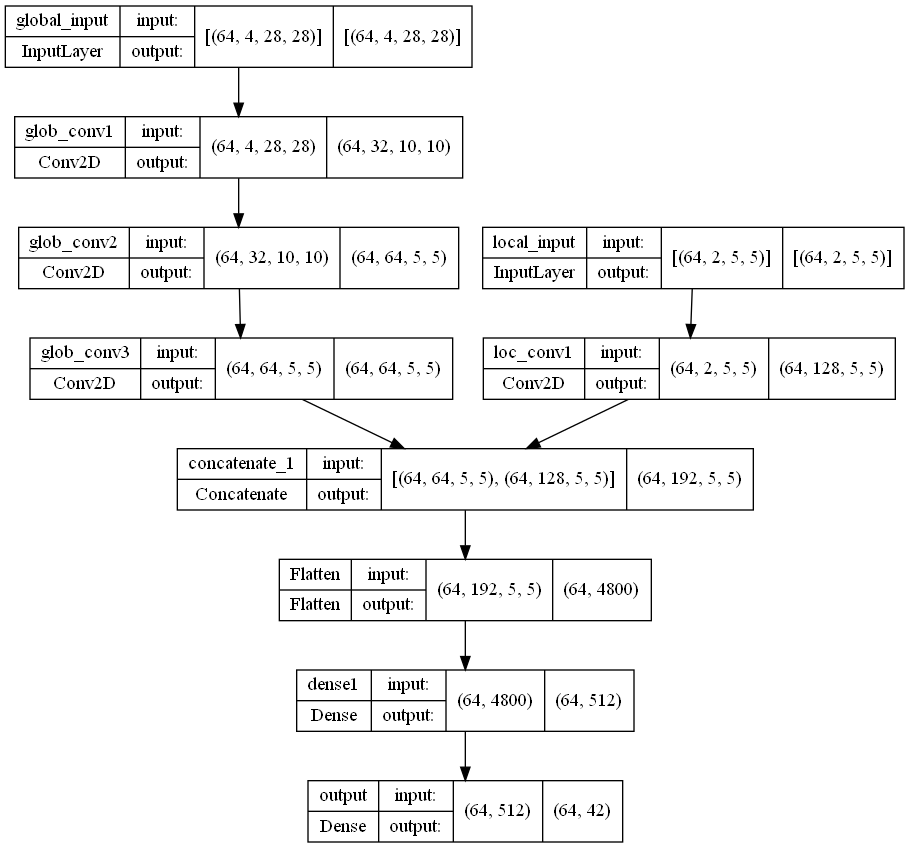
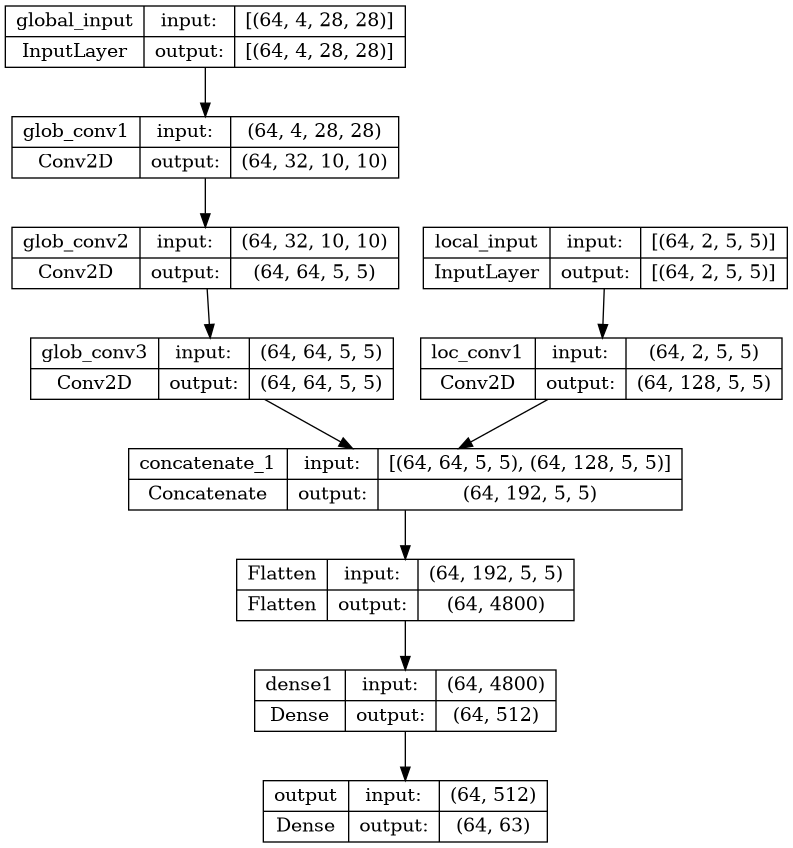
Redesigned action space parameters

diff --git a/src/agent_modules/environment.py b/src/agent_modules/environment.py
@@ -6,7 +6,7 @@ from agent_modules.physics import Physic_Engine
 
 
 class ShapeDraw(object):
-    def __init__(self, sidelength: int, patchsize: int, referenceData: np.array, n_actions : int,  do_render : bool = True, max_action_strength : int = 1):
+    def __init__(self, sidelength: int, patchsize: int, referenceData: np.array, n_actions : int,  do_render : bool = True, max_action_strength : int = 2, friction: float = 0.2, vel_1: float = 0.8, vel_2: float = 1.2):
         self.s = sidelength
         self.p = patchsize  # sidelength of patch (local Input). must be odd
         self.max_action_strength = max_action_strength
@@ -22,20 +22,20 @@ class ShapeDraw(object):
         self.canvas_patch = np.zeros((self.p, self.p))
 
         # Physics
-        self.phy_settings = {"friction": 0.2, "action_scale": 1.0}
+        self.phy_settings = {"friction": friction, "action_scale": 1.0}
         self.phy = Physic_Engine(**self.phy_settings)
 
 
         # possible outputs
         # For each pixel, is an action option (location of that pixel)
-        self.n_actions = 42
+        self.n_actions = n_actions
         self.actions = [(0,0)]
         for i in range(8):
             angle = ma.pi/4*i
-            self.actions.append( (float('%.2f' % (ma.cos(angle)*0.8)) , float('%.2f' % (ma.sin(angle)*0.8))) )
+            self.actions.append( (float('%.2f' % (ma.cos(angle)*vel_1)) , float('%.2f' % (ma.sin(angle)*vel_1))) )
         for i in range(12):
             angle = ma.pi/6*i
-            self.actions.append( (float('%.2f' % (ma.cos(angle)*1.2)) , float('%.2f' % (ma.sin(angle)*1.2))) )
+            self.actions.append( (float('%.2f' % (ma.cos(angle)*vel_2)) , float('%.2f' % (ma.sin(angle)*vel_2))) )
 
         print(self.actions)
 
@@ -47,7 +47,7 @@ class ShapeDraw(object):
         self.isDrawing = 0 # 0 = not Drawing, 1 = Drawing (not bool because NN)
         self.agentPos = [0, 0] # initialize agent position to top left corner of the image
         self.set_agentPos([random.randint(1, self.s-2),
-                          random.randrange(1, self.s-2)])  # Set a random start location for the agent (but with one pixel margin)
+                          random.randrange(1, self.s-2)], weight=1)  # Set a random start location for the agent (but with one pixel margin)
 
         if do_render: self.fig, self.axs = plt.subplots(1, 2, figsize=[10,7])
         
@@ -64,12 +64,12 @@ class ShapeDraw(object):
         :rtype: tuple
         """
         
-        x, y = self.translate_action(agent_action)
+        x, y, weight = self.translate_action(agent_action)
         action = self.phy.calc_new_pos(self.agentPos, [x, y], update_velocity=True)
 
         penalty = 0
         if self.move_isLegal(action):
-            self.set_agentPos(action)
+            self.set_agentPos(action, weight)
         else:
             # Give a penalty for an illegal move
             penalty = -0.05
@@ -85,7 +85,7 @@ class ShapeDraw(object):
 
     def illegal_actions(self, illegal_list : np.array):
         for action in range(self.n_actions):
-            x, y = self.translate_action(action)
+            x, y, _ = self.translate_action(action)
             act = self.phy.calc_new_pos(self.agentPos, [x, y], update_velocity = False)
             illegal_list[action] = int(not self.move_isLegal(act))
         
@@ -118,12 +118,13 @@ class ShapeDraw(object):
         :rtype: tuple
         """
         self.isDrawing = 1
-        if action >= int(self.n_actions/2):
-            action -= int(self.n_actions/2)
+        weight = int(action/(self.n_actions/self.max_action_strength))
+        action = action % int(self.n_actions/self.max_action_strength)
+        if weight == 0:
             self.isDrawing = 0
 
         x, y = self.actions[action]
-        return x, y
+        return x, y, weight
 
 
     def reward(self):
@@ -153,7 +154,7 @@ class ShapeDraw(object):
         return reward
 
 
-    def set_agentPos(self, pos: list):
+    def set_agentPos(self, pos: list, weight: int):
         """
         set_agentPos Sets the agent to a new position.
 
@@ -161,7 +162,7 @@ class ShapeDraw(object):
         :type pos: list
         """
         if self.isDrawing:
-            self.canvas = drawline(self.agentPos, pos, self.canvas)
+            self.canvas = drawline(self.agentPos, pos, self.canvas, weight=weight)
         self.agentPos = pos
         self.update_distmap()
         self.update_patch()
@@ -230,7 +231,7 @@ class ShapeDraw(object):
         self.isDrawing = 0
         self.phy.velocity = [.0, .0]
         self.set_agentPos((random.randint(1, self.s-2),
-                          random.randint(1, self.s-2)))
+                          random.randint(1, self.s-2)), weight = 1)
 
         
         # Reset the reward by rerunning it on an empty canvas
@@ -299,7 +300,7 @@ class ShapeDraw(object):
 
 
 # draws Line directly on bitmap to save convert
-def drawline(setpos, pos, canvas):
+def drawline(setpos, pos, canvas, weight):
     """
     drawline Draw a line on a specified canvas.
 
@@ -312,7 +313,7 @@ def drawline(setpos, pos, canvas):
     :return: The canvas with the line drawn
     :rtype: np.array
     """
-    weight = 1  # The weight of a stroke
+    weight = weight-1  # The weight of a stroke
     dx = pos[0] - setpos[0]  # delta x
     dy = pos[1] - setpos[1]  # delta y
     linePix = []  # Pixels of the line

diff --git a/src/optimizer.py b/src/optimizer.py
@@ -12,18 +12,19 @@ from rich.progress import track
 # constant parameters
 canvas_size = 28
 patch_size = 5
-n_actions = 42
+n_actions = 12+8+1
 episode_mem_size = 200
 batch_size = 64
 n_episodes = 1000
 n_steps = 64
 n_epochs = 1
-max_action_strength = 1
 
 
-def runner(gamma, epsilon, alpha, episode_mem_size, replace_target):
+def runner(gamma, epsilon, alpha, episode_mem_size, replace_target, friction, max_action_strength, vel_1, vel_2):
+    n_actions = n_actions * (max_action_strength)
     episode_mem_size = int(episode_mem_size)
     replace_target = int(replace_target)
+    max_action_strength = int(max_action_strength)
 
     # further calculations
     glob_in_dims = (4, canvas_size, canvas_size)
@@ -33,7 +34,7 @@ def runner(gamma, epsilon, alpha, episode_mem_size, replace_target):
     data = AI_Data(path="src/data/train_ref_Data.json")
     data.sample(n_episodes)
     env = ShapeDraw(canvas_size, patch_size, data.pro_data,
-                    max_action_strength=max_action_strength, n_actions=n_actions)
+                    max_action_strength=max_action_strength, n_actions=n_actions, friction=friction, vel_1, vel_2)
     agent_args = {"gamma": gamma, "epsilon": epsilon, "alpha": alpha, "replace_target": replace_target,
                   "global_input_dims": glob_in_dims, "local_input_dims": loc_in_dims,
                   "mem_size": mem_size, "batch_size": batch_size,
@@ -95,7 +96,7 @@ if __name__ == '__main__':
     # Parameter list to optimize
     parameters = {"gamma": (0.001, 0.99), "epsilon": (
         0.1, 1), "alpha": (0.0001, 0.001),
-        "episode_mem_size": (25, 1000), "replace_target": (50, 3000)}
+        "episode_mem_size": (25, 1000), "replace_target": (50, 3000), "friction": (0.01, 1), "vel_1": (0.1, 2), "vel_2": (0.1, 2), "max_action_strength": (2, 4.99)}
 
     optimizer = BayesianOptimization(
         f=runner,

diff --git a/src/nn_train.py b/src/nn_train.py
@@ -15,19 +15,21 @@ if __name__ == '__main__':
     n_episodes = 4000
     n_steps = 64
     n_epochs = 3
-    max_action_strength = 1
-    n_actions = 42
+    max_action_strength = 3
+    n_actions = 12+8+1
+    vel_1, vel_2 = 0.8, 1.2
 
     # further calculations
     glob_in_dims = (4, canvas_size, canvas_size)
     loc_in_dims = (2, patch_size, patch_size)
     mem_size = episode_mem_size*n_steps
+    n_actions *= max_action_strength
 
     #load Data
     learn_plot = Learn_Plotter(path="src/result_stats/plotlearn_data.json")
     data = AI_Data(path="src/data/train_ref_Data.json")
     data.sample(n_episodes)
-    env = ShapeDraw(canvas_size, patch_size, data.pro_data, n_actions=n_actions, max_action_strength=max_action_strength)
+    env = ShapeDraw(canvas_size, patch_size, data.pro_data, n_actions=n_actions, max_action_strength=max_action_strength, vel_1=vel_1, vel_2=vel_2)
     agent_args = {"gamma": 0.66, "epsilon": 0.2, "alpha": 0.00075, "n_actions" : n_actions, "replace_target": 8000, 
                   "global_input_dims": glob_in_dims, "local_input_dims": loc_in_dims, 
                   "mem_size": mem_size, "batch_size": batch_size, 
@@ -71,11 +73,11 @@ if __name__ == '__main__':
                 next_gloabal_obs, next_local_obs, reward = env.step(action)
 
                 
-                """ if total_counter % 5 == 0 and total_counter > 200: 
+                if total_counter % 5 == 0 and total_counter > 200: 
                     env.render("Compare", realtime=True)
                     print(illegal_moves, action)
                     sleep(0.5)
-                """
+
 
                 # Save new information
                 agent.store_transition(
